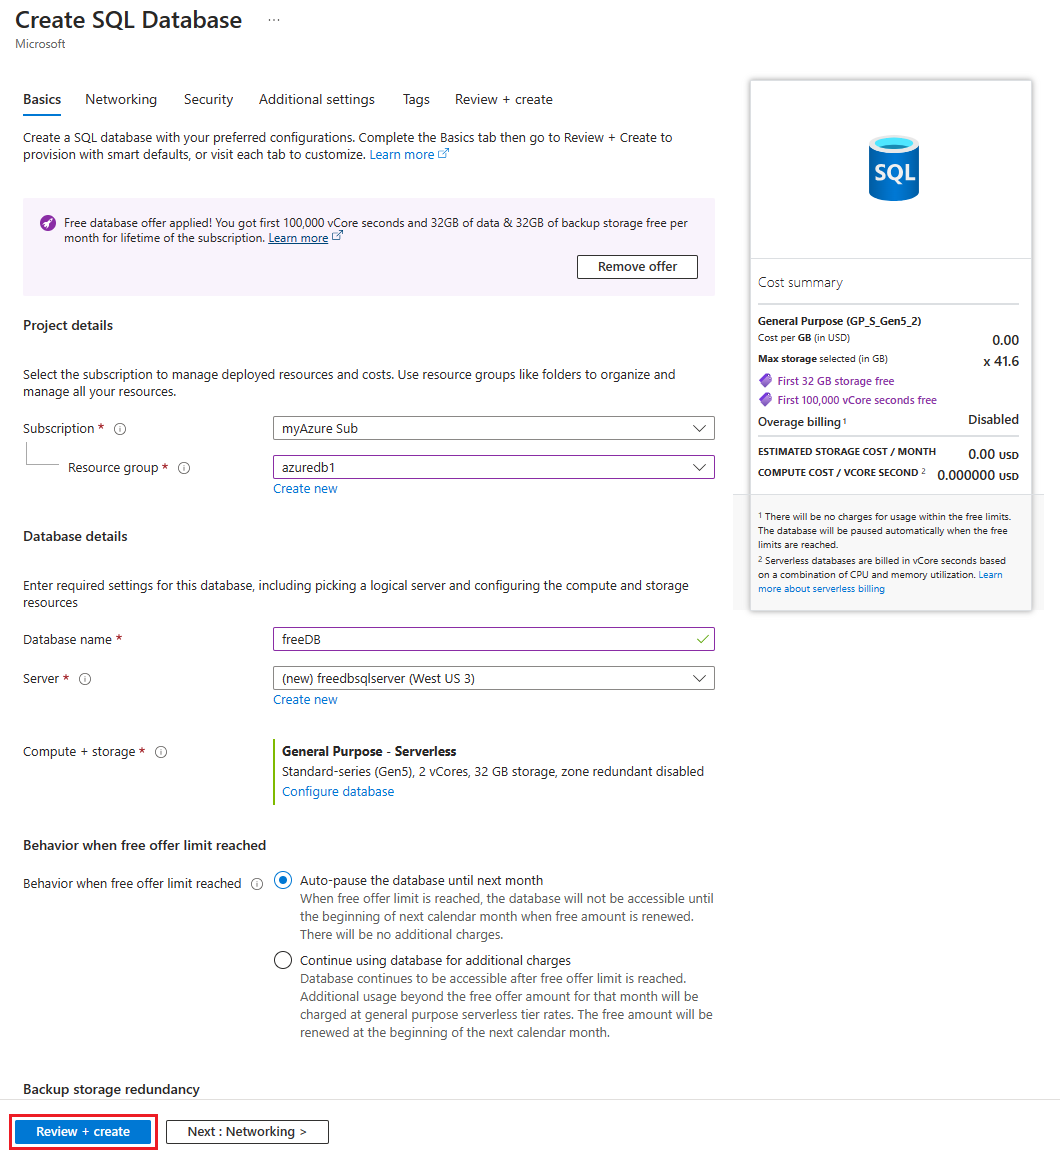
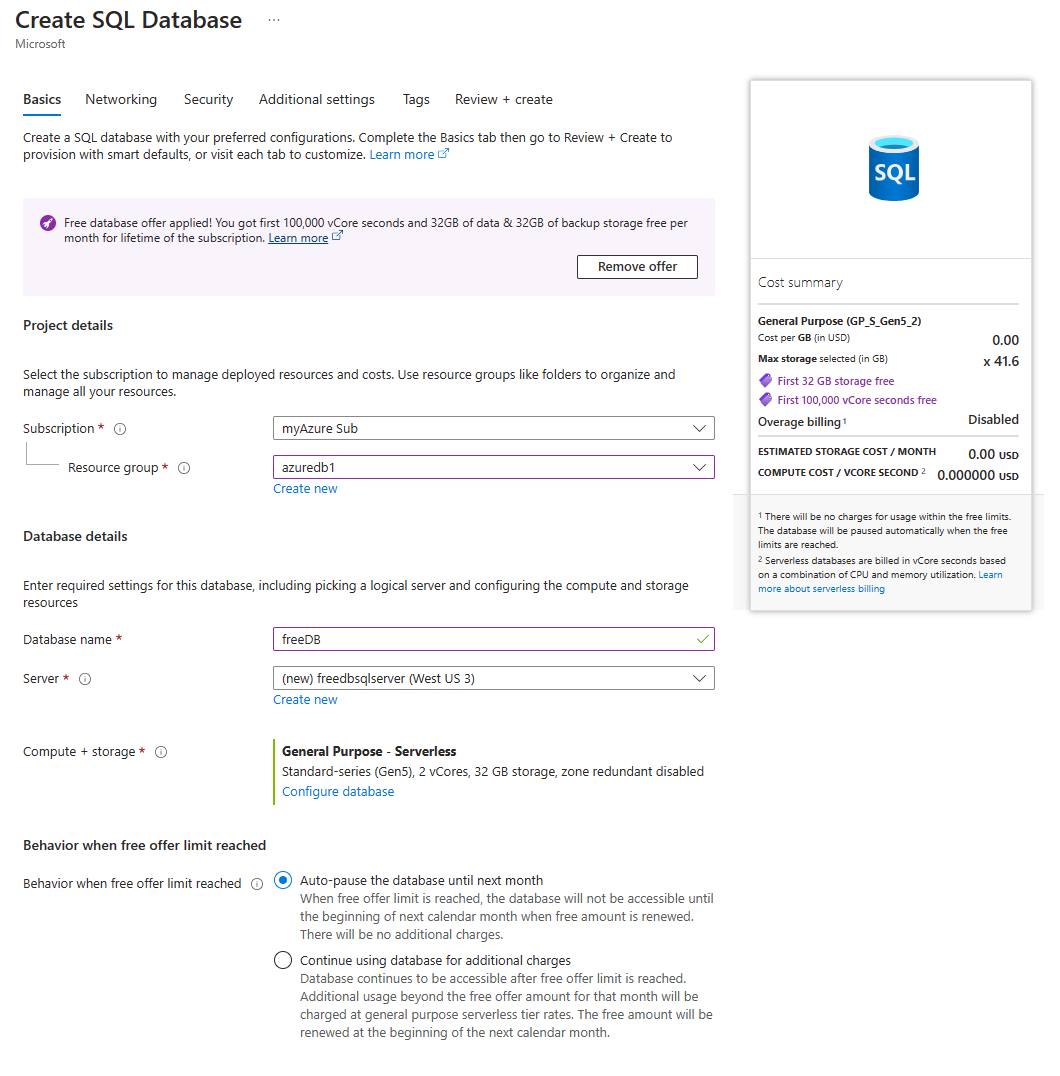
ch2

diff --git a/docs/2-create-azure-SQL-database.md b/docs/2-create-azure-SQL-database.md
@@ -70,6 +70,8 @@ The next section of the workshop will be using an Azure SQL Database. To move ou
 
 1. Back on the **Create a SQL Database** page, verify the values you entered and that the free database offer has been applied. 
 
+    ![A picture of verifying the values and that the free database offer has been applied](./media/ch2/deploy1o.png)
+
 1. **ADD ADVENTURE WORKS DATA HERE**
 
 1. Then click the **Review + create** button in the lower left of the page.
